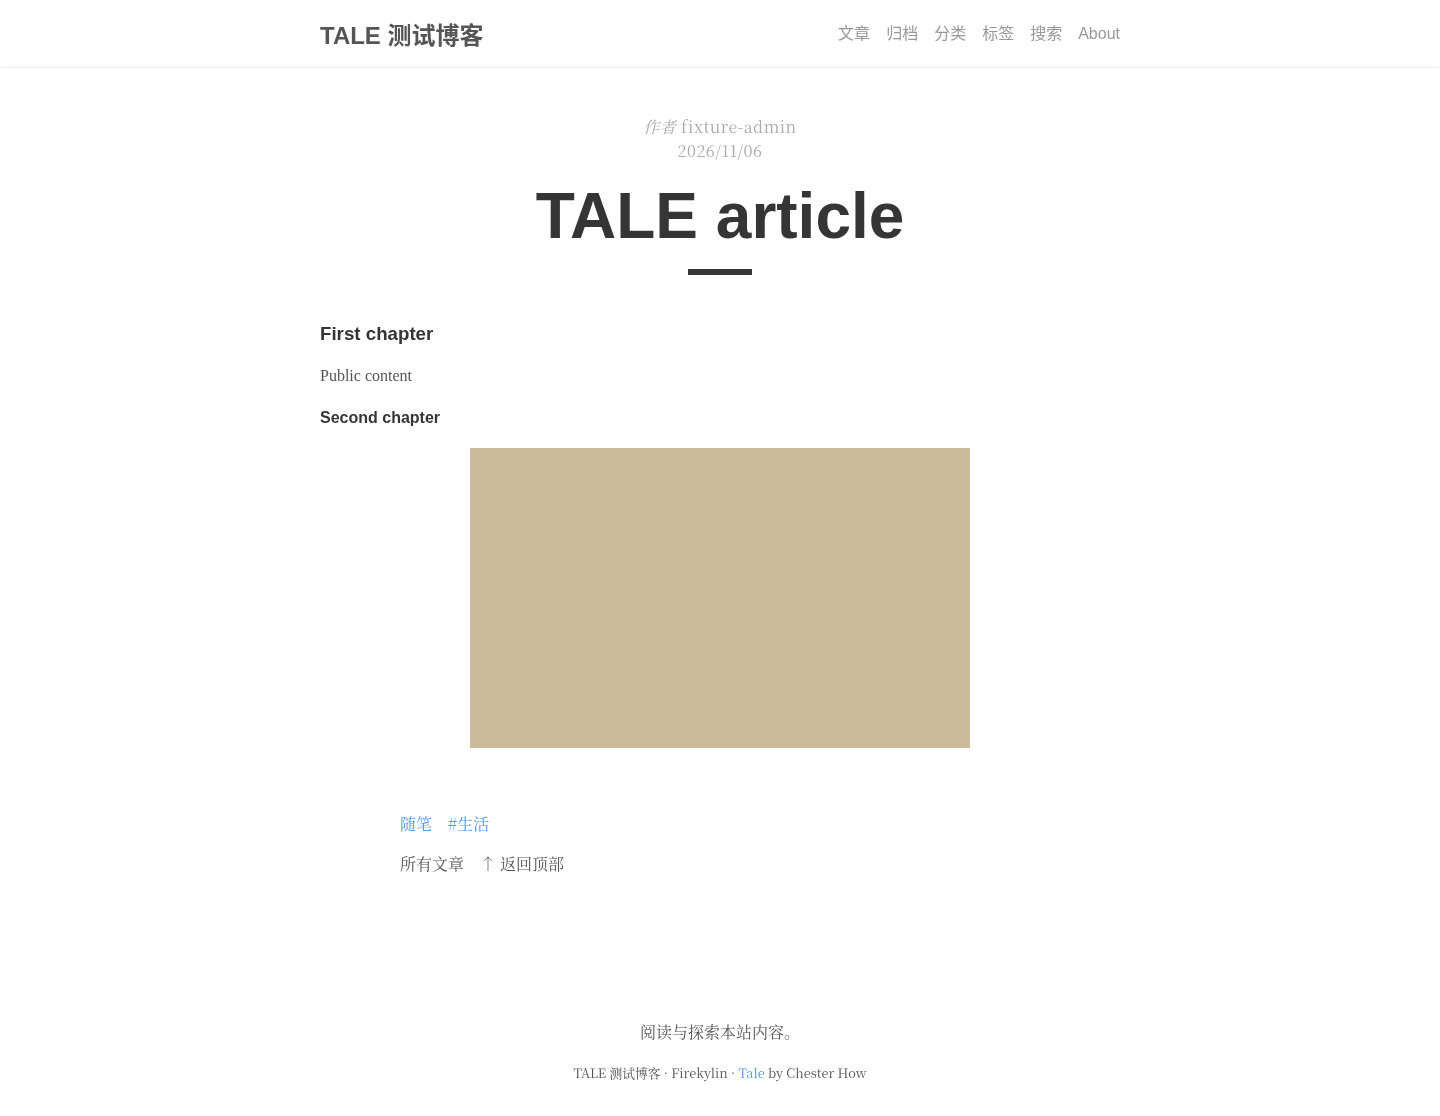
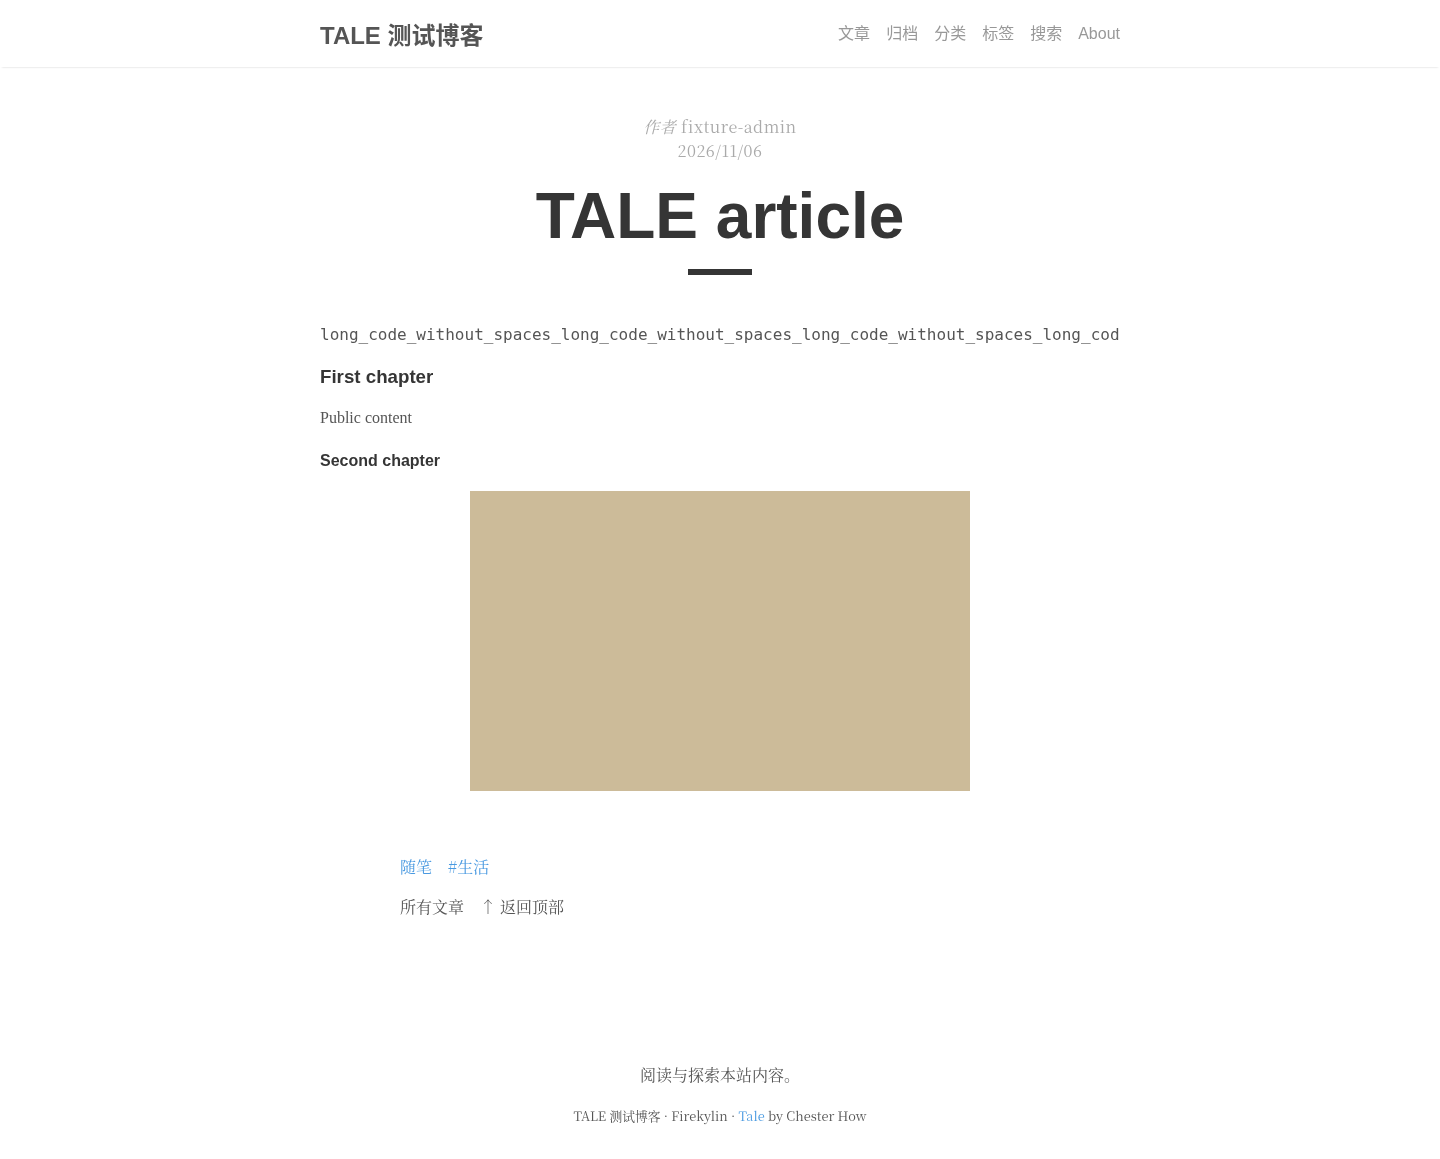
fix: render native attachment media and contain long code

diff --git a/test/tale.test.js b/test/tale.test.js
@@ -4,3 +4,5 @@ const {render,pages}=require('./port-fixture');
 for(const page of pages)test('Tale '+page+' renders populated and empty Widgets',async()=>{for(const empty of [false,true]){const html=await render('tale',page,{empty});assert.match(html,/Tale/);assert(!html.includes('undefined'));}});
 test('Tale escapes titles, rejects active cover URLs, preserves protected body',async()=>{const html=await render('tale','index',{hostile:true,config:{profileName:'<script>alert(1)</script>',backgroundImage:'javascript:alert(1)'}});assert(!html.includes('<img src=x onerror'));assert.match(html,/&lt;img/);assert(!html.includes('src="javascript:'));assert.match(await render('tale','post',{protected:true}),/protectPassword/);});
 test('Tale delegates comments and keeps search filters in pagination',async()=>{assert(!(await render('tale','post',{comments:false})).includes('id="comments"'));const html=await render('tale','search',{request:'/search.html?keyword=a%26b'});assert.match(html,/keyword=a%26b&amp;page=2/);});
+
+test('tale renders attachment media and rejects active file URLs',async()=>{const {context}=require('./port-fixture');const {Eta}=require('eta');const path=require('node:path');for(const [mime,element] of [['image/png','img'],['audio/mpeg','audio'],['video/mp4','video'],['application/pdf',null]]){const ctx=context('tale','attachment');const archive=await ctx.widget('Widget_Archive');archive.stack[0].options={attachment:{mime,url:'/uploads/file',name:'Download file'}};const html=await new Eta({views:path.join(__dirname,'../packages/tale'),varName:'firekylin'}).renderAsync('attachment',ctx);assert.match(html,/href="\/uploads\/file" download/);if(element)assert(html.includes('<'+element+' '));}const ctx=context('tale','attachment');(await ctx.widget('Widget_Archive')).stack[0].options={attachment:{mime:'image/png',url:'javascript:alert(1)'}};const html=await new Eta({views:path.join(__dirname,'../packages/tale'),varName:'firekylin'}).renderAsync('attachment',ctx);assert(!html.includes('javascript:'));});

diff --git a/packages/tale/res/css/theme.css b/packages/tale/res/css/theme.css
@@ -612,3 +612,5 @@ footer span {
 }
 /* Native Firekylin integration */
 body{overflow-wrap:anywhere}img{height:auto}iframe,video{max-width:100%}.nav-container{display:flex;align-items:center;justify-content:space-between;gap:1rem;flex-wrap:wrap}.nav ul{position:static;display:flex;flex-wrap:wrap;gap:.6rem 1rem;margin:0}.nav li{padding:0}.prose table{display:block;overflow:auto}.post-actions,.tags{display:flex;flex-wrap:wrap;gap:1rem;margin:1rem 0}.post-actions a{color:inherit}input,button{font:inherit;max-width:100%;box-sizing:border-box}.skip{position:absolute;top:-100px}.skip:focus{top:0}.pagination{display:flex;justify-content:space-between}.post .post-info{text-align:center}.post-title{font-size:clamp(2.3rem,7vw,4rem)}:focus-visible{outline:2px solid #4a9ae1;outline-offset:3px}@media(prefers-reduced-motion:reduce){*{transition:none!important}}
+/* Native code and attachment containment. */
+.prose pre{max-width:100%;overflow-x:auto}.attachment-media img,.attachment-media audio,.attachment-media video{max-width:100%}
